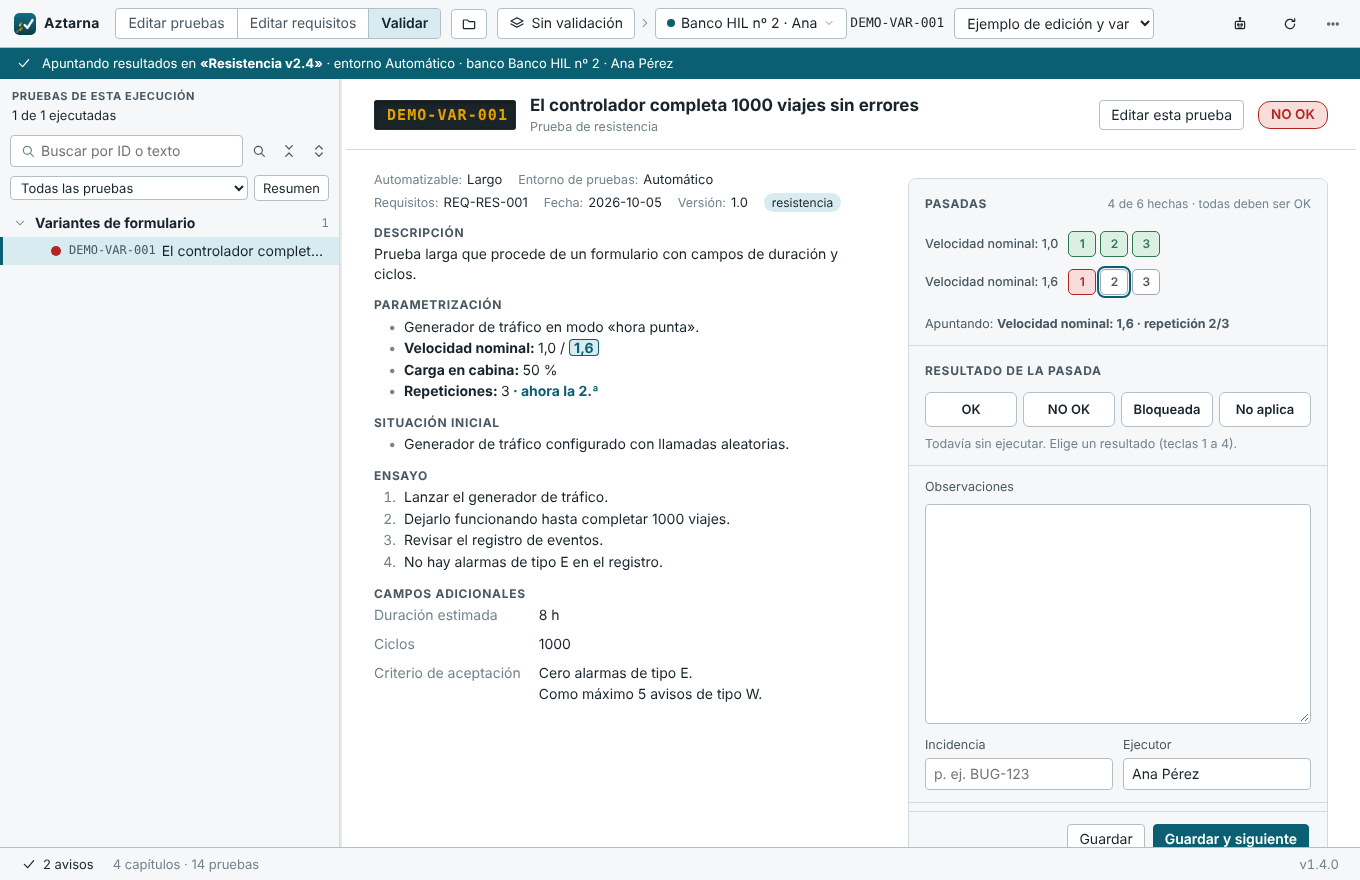
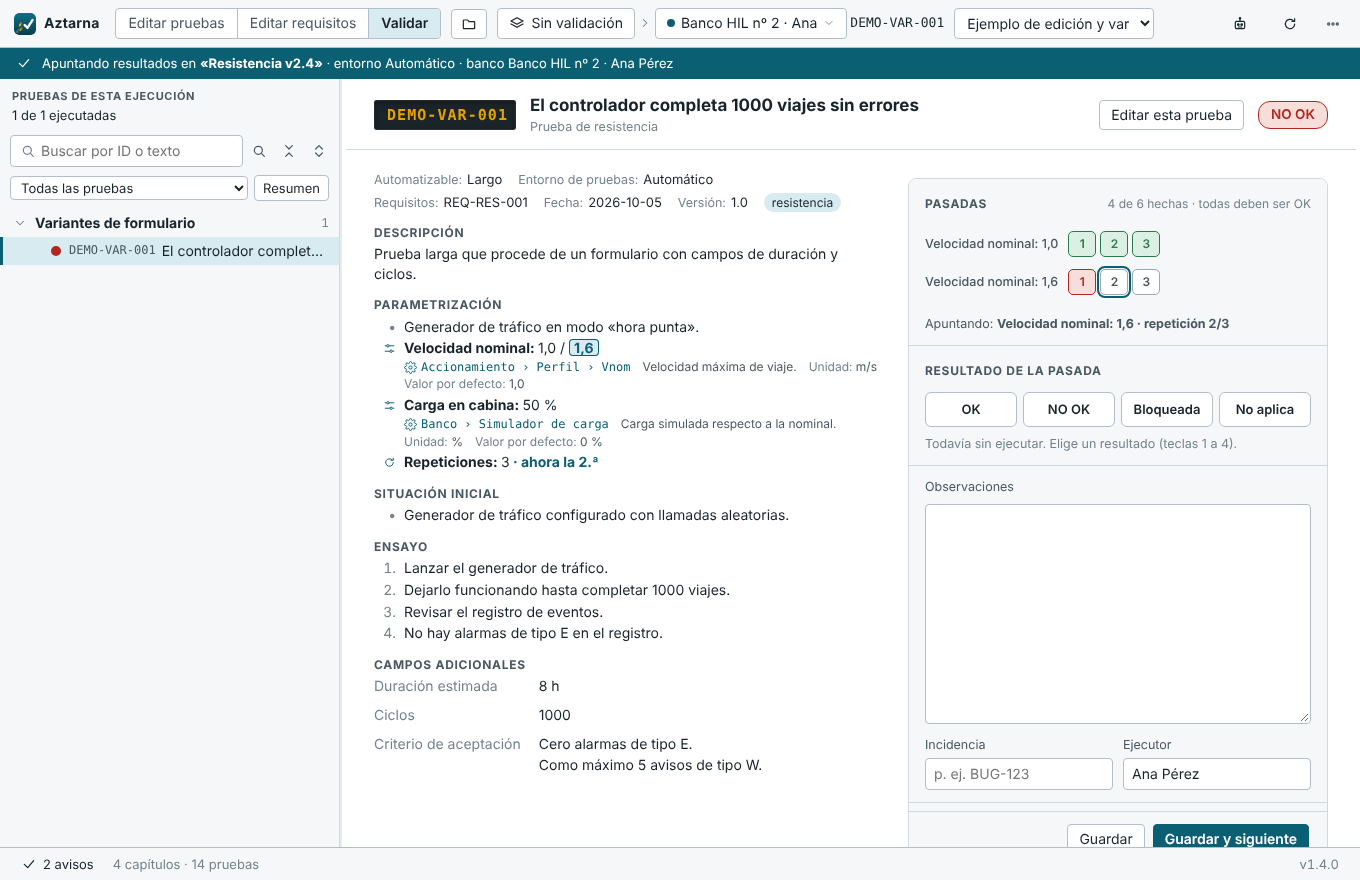
Parámetros: tarjeta en una línea en el editor y datos del catálogo en la ficha de la prueba
Claude-Session: https://claude.ai/code/session_01J8Tj4AQ5BQ3LtPFJNhaWze

Changed region(s): [[0.2779, 0.3989, 0.6485, 0.8898]]

diff --git a/web/css/app.css b/web/css/app.css
@@ -1063,21 +1063,27 @@ dialog.buscar-global input[type=search] { width: 100%; font-size: 15px; padding:
 .btn.e-no_ok-btn { border-color: var(--st-no_ok); color: var(--st-no_ok); }
 
 /* Parámetros de la parametrización: qué se toca y con qué valores (form.js) */
-.elemento-parametro .contenido { padding: 4px 0 6px; }
-.rejilla-parametro { display: grid; grid-template-columns: minmax(180px, 2fr) minmax(220px, 3fr); gap: 8px 12px; align-items: start; }
-.rejilla-parametro .campo { margin: 0; }
-.rejilla-parametro .campo > label { font-size: 11.5px; color: var(--ink-3); }
-.nombre-parametro input { width: 100%; font-weight: 600; }
-.nota-parametro { display: flex; flex-wrap: wrap; gap: 4px 14px; margin-top: 4px; font-size: 12.5px; color: var(--ink-2); }
+.elemento-parametro .contenido { padding: 3px 0 5px; }
+.tarjeta-parametro { border: 1px solid var(--rule); border-left: 3px solid var(--accent); border-radius: 6px; background: var(--paper); padding: 6px 10px 7px; }
+.elemento-parametro:hover .tarjeta-parametro, .elemento-parametro:focus-within .tarjeta-parametro { border-color: var(--rule-strong); border-left-color: var(--accent); }
+.rejilla-parametro { display: grid; grid-template-columns: auto minmax(160px, 260px) minmax(0, 1fr); gap: 8px; align-items: center; }
+.rejilla-parametro .campo { grid-column: auto; margin: 0; gap: 0; }
+.rejilla-parametro .campo > label { position: absolute; width: 1px; height: 1px; overflow: hidden; clip: rect(0 0 0 0); }
+.icono-parametro { display: grid; place-items: center; width: 26px; height: 26px; border-radius: 50%; background: var(--accent-soft); color: var(--accent); }
+.icono-parametro .ico { width: 15px; height: 15px; }
+.nombre-parametro input { width: 100%; font-weight: 650; border-color: transparent; background: transparent; padding-left: 4px; }
+.nombre-parametro input:hover, .nombre-parametro input:focus { border-color: var(--rule-strong); background: var(--paper); }
+.rejilla-parametro .fichas { min-height: 32px; }
+.nota-parametro { display: flex; flex-wrap: wrap; gap: 3px 14px; margin: 5px 0 0 34px; font-size: 12.5px; color: var(--ink-2); }
 .nota-parametro:empty { display: none; }
-.nota-parametro .ubicacion { display: inline-flex; align-items: center; gap: 4px; font-family: var(--mono); font-size: 12px; }
-.nota-parametro .ubicacion .ico { width: 13px; height: 13px; }
+.nota-parametro .ubicacion, .info-parametro .ubicacion { display: inline-flex; align-items: center; gap: 4px; font-family: var(--mono); font-size: 12px; color: var(--accent); }
+.nota-parametro .ubicacion .ico, .info-parametro .ubicacion .ico { width: 13px; height: 13px; }
 .nota-parametro .aviso-parametro { color: var(--warn); }
 .pie-parametrizacion { display: flex; flex-wrap: wrap; align-items: center; gap: 6px 10px; margin-top: 8px; padding-top: 8px; border-top: 1px dashed var(--rule); font-size: 13px; }
 .pie-parametrizacion label { font-weight: 600; }
 .pie-parametrizacion input { width: 70px; }
 .pie-parametrizacion .resumen-pasadas { margin-left: auto; color: var(--ink-2); }
-@media (max-width: 700px) { .rejilla-parametro { grid-template-columns: 1fr; } .pie-parametrizacion .resumen-pasadas { margin-left: 0; } }
+@media (max-width: 700px) { .rejilla-parametro { grid-template-columns: auto 1fr; } .rejilla-parametro .campo:last-child { grid-column: 1 / -1; } .nota-parametro { margin-left: 0; } .pie-parametrizacion .resumen-pasadas { margin-left: 0; } }
 
 /* Pasadas de una prueba en la ejecución (configuraciones × repeticiones) */
 .bloque-pasadas .cab-panel .muted { font-size: 12px; margin-left: auto; }
@@ -1096,3 +1102,10 @@ dialog.buscar-global input[type=search] { width: 100%; font-size: 15px; padding:
 /* En la ficha de la prueba: los valores de la pasada que se está apuntando */
 .valor-param.actual { background: var(--accent-soft); color: var(--accent); font-weight: 650; padding: 0 5px; border-radius: 4px; box-shadow: inset 0 0 0 1px var(--accent); }
 .repeticion-actual { color: var(--accent); font-weight: 650; }
+/* Parámetros en la ficha de lectura (ejecución y validación) */
+.parametro-lectura .vineta .ico { width: 13px; height: 13px; color: var(--accent); vertical-align: -2px; }
+.info-parametro { display: flex; flex-wrap: wrap; gap: 1px 12px; font-size: 12px; color: var(--ink-2); margin-top: 1px; }
+.info-parametro:empty { display: none; }
+.nombre-parametro .sugerencias-fichas { min-width: min(480px, 80vw); }
+.nombre-parametro .sugerencias-fichas .opcion > span:first-child { white-space: nowrap; }
+.nombre-parametro .sugerencias-fichas .usos { overflow: hidden; text-overflow: ellipsis; }

diff --git a/web/js/form.js b/web/js/form.js
@@ -536,13 +536,14 @@ function editorLista(clave, titulo, { numerada = false, ayuda = "", conTablas = 
     const cambiado = () => { tocar(clave); if (pie) pie.actualizar(); };
     const valores = campoFichas(`param-${clave}-${i}`, "Valores", {
       lista: fila.valores, alCambiar: () => { cambiado(); nota.replaceChildren(...notaParametro(fila)); },
-      placeholder: "Añadir valor…", completo: true,
+      placeholder: fila.valores.length ? "Otro valor…" : "Valores: escribe uno y pulsa Intro…", completo: false,
       sugerir: () => ayudaParametros().then(() => valoresSugeridos(fila.parametro)),
     });
     const nota = h("div", { class: "nota-parametro" }, ...notaParametro(fila));
     const li = h("li", { class: "elemento elemento-parametro" },
       asa,
-      h("div", { class: "contenido" }, h("div", { class: "rejilla-parametro" }, nombre, valores), nota),
+      h("div", { class: "contenido" }, h("div", { class: "tarjeta-parametro" },
+        h("div", { class: "rejilla-parametro" }, h("span", { class: "icono-parametro", title: "Parámetro" }, icon("parametro")), nombre, valores), nota)),
       h("div", { class: "herramientas" },
         botonIcono("up", "Subir (Alt+↑)", () => mover(i, -1)),
         botonIcono("down", "Bajar (Alt+↓)", () => mover(i, 1)),
@@ -646,17 +647,24 @@ function valoresSugeridos(nombre) {
   return lista;
 }
 
+/** Lo que dice el catálogo de un parámetro: ubicación en el configurador, descripción, unidad y las demás columnas. */
+function infoCatalogo(cat) {
+  const partes = [];
+  if (cat.ubicacion) partes.push(h("span", { class: "ubicacion", title: "Dónde se toca en el configurador" }, icon("engranaje"), cat.ubicacion));
+  if (cat.descripcion) partes.push(h("span", { text: cat.descripcion }));
+  if (cat.unidad) partes.push(h("span", {}, h("span", { class: "muted", text: "Unidad: " }), cat.unidad));
+  // Las demás columnas del catálogo, tal cual («Valor por defecto: 1,0»).
+  for (const [columna, valor] of cat.otros || []) partes.push(h("span", {}, h("span", { class: "muted", text: `${columna}: ` }), valor));
+  return partes;
+}
+
 /** Ubicación en el configurador, descripción y avisos del parámetro de una fila. */
 function notaParametro(fila) {
   if (!fila.parametro.trim()) return [h("span", { class: "muted", text: "Escribe el parámetro o elígelo del catálogo." })];
   const cat = delCatalogo(fila.parametro);
   const partes = [];
   if (cat) {
-    if (cat.ubicacion) partes.push(h("span", { class: "ubicacion", title: "Dónde se toca en el configurador" }, icon("engranaje"), cat.ubicacion));
-    if (cat.descripcion) partes.push(h("span", { text: cat.descripcion }));
-    if (cat.unidad) partes.push(h("span", { class: "muted", text: `Unidad: ${cat.unidad}` }));
-    // Las demás columnas del catálogo, tal cual («Valor por defecto: 1,0»).
-    for (const [columna, valor] of cat.otros || []) partes.push(h("span", {}, h("span", { class: "muted", text: `${columna}: ` }), valor));
+    partes.push(...infoCatalogo(cat));
     const fuera = cat.valores.length ? fila.valores.filter((v) => !cat.valores.some((c) => claveNombre(c) === claveNombre(v))) : [];
     if (fuera.length) partes.push(h("span", { class: "aviso-parametro", text: `${fuera.join(", ")}: no ${fuera.length === 1 ? "es un valor" : "son valores"} del catálogo` }));
   } else if (AYUDA_PARAMETROS.catalogo.length) {
@@ -717,7 +725,7 @@ function campoNombreParametro(fila, alElegir) {
     cerrar();
     entrada.blur();
   }
-  return h("div", { class: "campo con-sugerencias nombre-parametro" }, h("label", { text: "Parámetro" }), entrada, lista);
+  return h("div", { class: "campo con-sugerencias nombre-parametro" }, entrada, lista);
 }
 
 /** Pie de la parametrización: repeticiones y cuántas pasadas tendrá la prueba en la ejecución. */

diff --git a/web/js/ejecucion.js b/web/js/ejecucion.js
@@ -964,9 +964,11 @@ function listaLectura(items, numerada) {
     if (f.forma === "tabla") return h("li", { class: "con-tabla" }, h("div", {}, vistaTabla(f.tabla)));
     if (f.forma === "parametro") {
       // Cada valor por separado: el de la pasada que se está apuntando se resalta (ver resaltarPasada).
-      return h("li", {}, h("span", { class: "vineta", text: "•" }),
+      return h("li", { class: "parametro-lectura" }, h("span", { class: "vineta" }, icon("parametro")),
         h("div", {}, h("strong", { text: `${f.parametro}: ` }), f.valores.flatMap((v, k) => [
-          k ? " / " : null, h("span", { class: "valor-param", dataset: { parametro: f.parametro, valor: v }, text: v })])));
+          k ? " / " : null, h("span", { class: "valor-param", dataset: { parametro: f.parametro, valor: v }, text: v })]),
+          // Lo que dice el catálogo (dónde se toca…): se completa al tenerlo (ver completarInfoParametros).
+          h("div", { class: "info-parametro", dataset: { parametro: f.parametro } })));
     }
     const marca = numerada && !f.nivel ? `${++n}.` : f.nivel ? "–" : "•";
     return h("li", { style: { "--nivel": String(f.nivel) } },
@@ -981,7 +983,7 @@ function parametrizacionLectura(el) {
   const lista = listaLectura(el.parametrizacion, false);
   const repeticiones = Number(el.repeticiones) || 1;
   if (repeticiones <= 1) return lista;
-  const linea = h("li", {}, h("span", { class: "vineta", text: "•" }),
+  const linea = h("li", { class: "parametro-lectura" }, h("span", { class: "vineta" }, icon("reload")),
     h("div", {}, h("strong", { text: "Repeticiones: " }), String(repeticiones), h("span", { class: "repeticion-actual" })));
   if (lista.tagName === "OL") { lista.appendChild(linea); return lista; }
   return h("ol", { class: "lectura" }, linea);
@@ -1007,7 +1009,7 @@ function fichaPrueba(el) {
   const extras = Object.entries(el.campos_adicionales || {});
   const bloque = (titulo, contenido) => h("section", { class: "bloque" }, h("div", { class: "bloque-cab" }, h("h3", { text: titulo })), contenido);
   // Compacta: los datos en una línea y los bloques juntos, para ver de una un ensayo de 20-30 pasos.
-  return h("div", { class: "ficha-prueba compacta" },
+  const ficha = h("div", { class: "ficha-prueba compacta" },
     meta.length || aLista(el.etiquetas).length ? h("div", { class: "meta-linea" },
       meta.map(([k, v]) => h("span", { class: "meta-item" }, h("span", { class: "k", text: k }), h("span", { class: "v", text: String(v) }))),
       aLista(el.etiquetas).map((t) => h("span", { class: "ficha", text: t }))) : null,
@@ -1022,6 +1024,16 @@ function fichaPrueba(el) {
         : typeof v === "object" && v !== null ? h("pre", { text: JSON.stringify(v, null, 2) }) : textoConFormato(String(v ?? ""))),
     ]))) : null,
     aLista(el.imagenes).length ? bloque("Imágenes", h("div", { class: "imagenes" }, aLista(el.imagenes).map((ruta) => miniatura(String(ruta), null)))) : null);
+  if (ficha.querySelector(".info-parametro")) ayudaParametros().then(() => completarInfoParametros(ficha));
+  return ficha;
+}
+
+/** Debajo de cada parámetro de la ficha, lo que dice de él el catálogo (ubicación, descripción, unidad…). */
+function completarInfoParametros(raiz) {
+  for (const el of raiz.querySelectorAll(".info-parametro")) {
+    const cat = delCatalogo(el.dataset.parametro);
+    el.replaceChildren(...(cat ? infoCatalogo(cat) : []));
+  }
 }
 
 /* ---- panel de resultado ---- */

diff --git a/CHANGELOG.md b/CHANGELOG.md
@@ -24,7 +24,8 @@ cada versión publicada lleva su etiqueta de Git (`v0.8.0`…).
   evidencias e historial. La prueba es OK solo si todas sus pasadas lo son,
   NO OK en cuanto falla una; la ejecución no se cierra con pasadas
   pendientes; *Guardar y siguiente* recorre las pasadas pendientes. En la
-  ficha de la prueba se resaltan los valores de la pasada que se apunta. El
+  ficha de la prueba se resaltan los valores de la pasada que se apunta, y
+  cada parámetro lleva debajo lo que dice de él el catálogo (dónde se toca…). El
   resumen da el avance por pasadas y el informe, el resultado de cada una.
 - En el Word, los parámetros salen como «**Parámetro:** v1 / v2» y las
   repeticiones como «**Repeticiones:** N», y vuelven a serlo al importarlo.

diff --git a/MANUAL.md b/MANUAL.md
@@ -897,7 +897,9 @@ panel el bloque **Pasadas**: una fila por configuración (*Velocidad nominal:
 resultado. La pasada elegida (recuadrada) es la que se apunta: resultado,
 observaciones, incidencia, evidencias e historial son de esa pasada. En la
 parametrización de la prueba, a la izquierda, se resaltan sus valores (y en
-*Repeticiones*, cuál toca). Al
+*Repeticiones*, cuál toca), y debajo de cada parámetro sale lo que dice de él
+el catálogo: dónde se toca en el configurador, su descripción, su unidad y
+las demás columnas. Al
 abrir la prueba se elige la primera pendiente, y **Guardar y siguiente**
 salta a la siguiente pasada pendiente de la prueba y, cuando no quedan, a la
 siguiente prueba.
